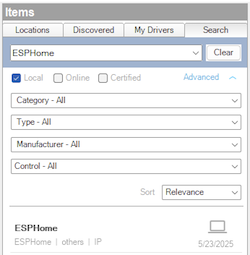
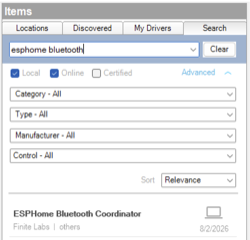
docs: retake the Composer search screenshots (#94)
The esphome screenshot predated the move to Finite Labs as the manufacturer, so
the result subtitle still read ESPHome.

Gives the Bluetooth coordinator its own screenshot showing its own search rather
than sharing the ESPHome one, and adds it to the install steps, which described
the search without showing it. The image is a separate block so it renders
inside the step rather than inline mid-sentence, which orphaned the word after
it in the PDF.

Both are 250px wide. These docs embed images with markdown, which carries no
width attribute, so the rendered size is whatever the file is.

Drops four images from the coordinator package that nothing referenced: the
DriverCentral check-drivers shot, which that driver's docs never show, and the
three relay-controller images, which belong to the ESPHome driver.

diff --git a/drivers/esphome_bluetooth_coordinator/www/documentation/index.md b/drivers/esphome_bluetooth_coordinator/www/documentation/index.md
@@ -161,17 +161,25 @@ for setting it up.
 
 1. Download the latest `control4-esphome.zip` from
    [DriverCentral](https://drivercentral.io/platforms/control4-drivers/utility/esphome).
+
 1. Extract and install the `esphome_bluetooth_coordinator.c4z` driver.
+
 1. Use the "Search" tab to find "ESPHome Bluetooth Coordinator" and add it to
    your project.
+
+   ![Search Drivers](images/search-drivers.png)
 
 <!-- #else -->
 
 1. Download the latest `control4-esphome.zip` from
    [Github](https://github.com/finitelabs/control4-esphome/releases/latest).
+
 1. Extract and install the `esphome_bluetooth_coordinator.c4z` driver.
+
 1. Use the "Search" tab to find "ESPHome Bluetooth Coordinator" and add it to
    your project.
+
+   ![Search Drivers](images/search-drivers.png)
 
 <!-- #endif -->
 
